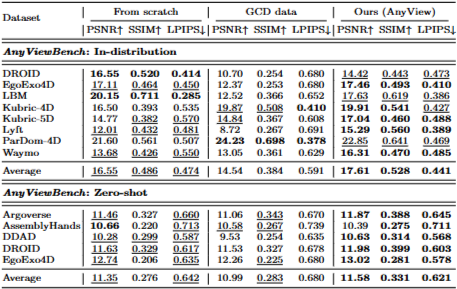
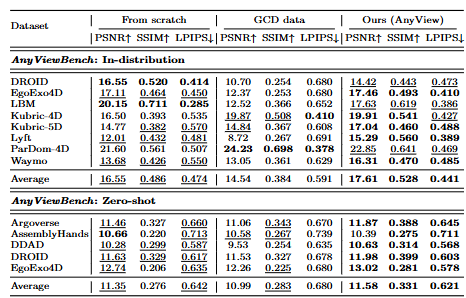
post: anyview v4

diff --git a/_posts/2026-10-20-anyview-synthesizing-any-novel-view-in-dynamic-scenes.md b/_posts/2026-10-20-anyview-synthesizing-any-novel-view-in-dynamic-scenes.md
@@ -120,7 +120,7 @@ Timestep
 
 **Figure 흐름 메모:** 입력 비디오와 입력 camera trajectory → 각 픽셀의 ray direction·moment를 담은 Plücker embedding 생성 → 입력 view와 target view 조건을 sequence 차원에서 함께 구성 → Cosmos latent diffusion transformer가 target-view video latent를 생성 → latent decoder가 시간 동기화된 RGB 비디오를 출력한다. Figure 1의 비교에서는 depth reprojection·point cloud 또는 기존 trajectory-aware baseline이 큰 시점 이동에서 입력 view를 복사하거나 구조를 잃는 반면, AnyView는 geometry·appearance·dynamic motion을 함께 유지하는지를 보여준다.
   
-![Pasted image 20261020174653](/assets/img/pasted-image-20261020174652.png)
+![Pasted image 20261020174653](/assets/img/pasted-image-20261020174653.png)
 
 AnyView가 기존 학습 방식보다 새로운 카메라 시점을 얼마나 정확하게 생성하는지 비교한 정량 평가 결과
 
